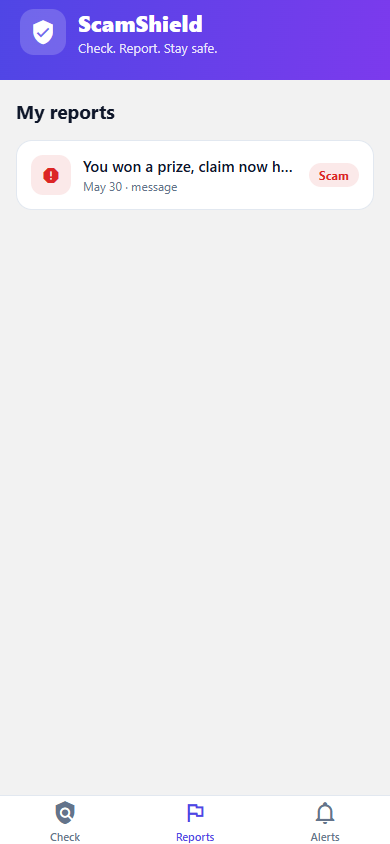
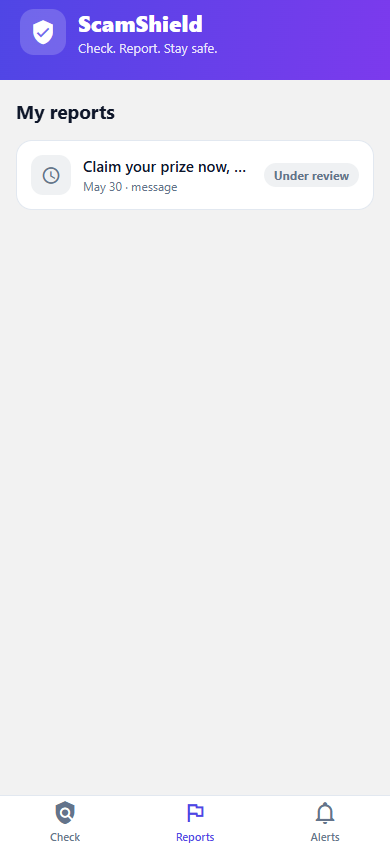
docs: refresh demo screenshots for Phase 3
Recaptured the current build against a seeded API:
- Check screen with the stats strip and Message/Number/Email toggle.
- A scam verdict showing the "reported N times" cluster count and the link
  warning.
- Reports with the "Under review" (pending) status.
- The admin verification dashboard (suggestions, mixed statuses, review controls).

Changed region(s): [[0.2154, 0.1848, 0.8923, 0.2156], [0.0923, 0.1848, 0.1538, 0.2156]]

diff --git a/README.md b/README.md
@@ -8,11 +8,15 @@ This is a personal portfolio build that mirrors the **stack and shape** of Singa
 
 The four surfaces, against the **live AWS API** (verdicts, the verified-caller label, report status, and alerts all come from the deployed backend):
 
-| Check a message | Check a number | My reports + status | Scam alerts |
+| Check + stats | Scam verdict (cluster + warning) | My reports | Scam alerts |
 |---|---|---|---|
-| ![check](docs/demo/01-check.png) | ![check call](docs/demo/02-check-call.png) | ![reports](docs/demo/03-reports.png) | ![alerts](docs/demo/04-alerts.png) |
+| ![check](docs/demo/01-check.png) | ![verdict](docs/demo/02-verdict.png) | ![reports](docs/demo/03-reports.png) | ![alerts](docs/demo/04-alerts.png) |
 
-There is also an **Email** check mode, a "reported N times" cluster count, a scam-stats strip, and a do-not-tap link warning.
+The Check screen has a Message / Number / **Email** toggle and a scam-stats strip; a flagged verdict shows the "reported N times" cluster count and a do-not-tap link warning; a report stays **Under review** until an admin verifies it.
+
+**Admin verification dashboard** (the reviewer marks each report; the verdict notifies the reporter):
+
+![admin dashboard](docs/demo/05-admin.png)
 
 - **Live API:** https://14cet1wgg0.execute-api.ap-southeast-1.amazonaws.com/health
 - **App browser preview** (the same React Native components via react-native-web, against the live API): https://elleskay.github.io/scamshield/